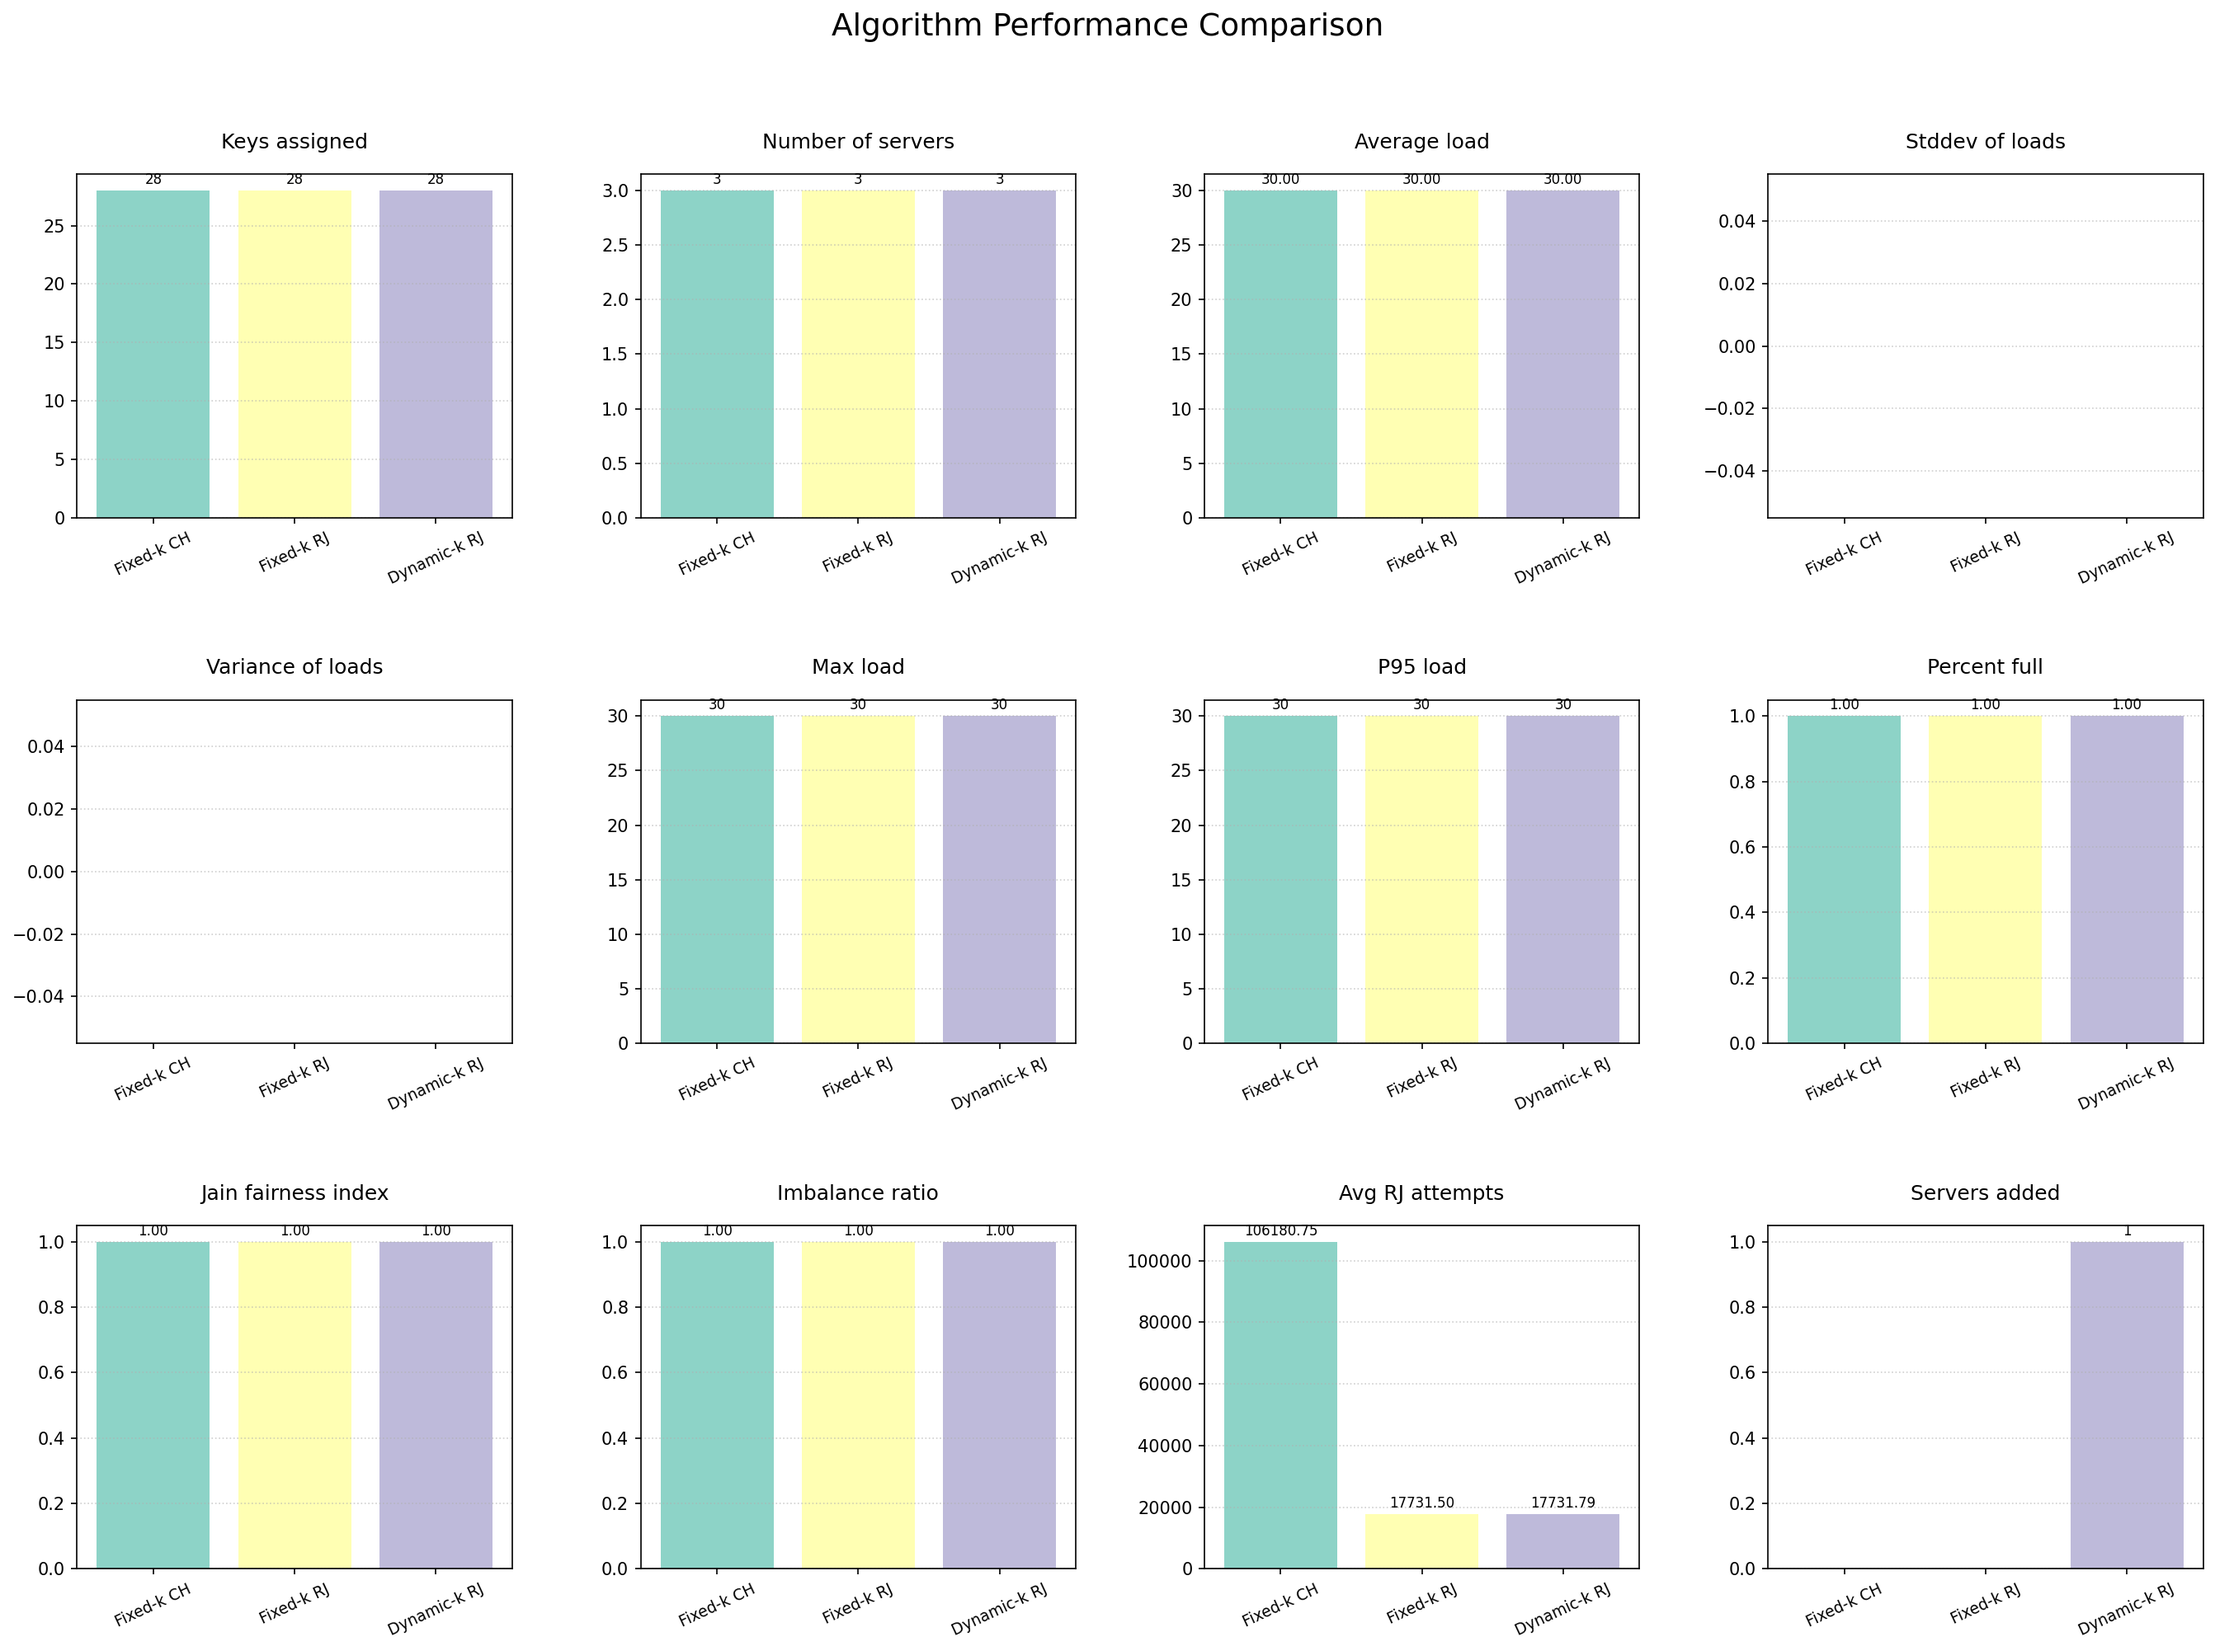
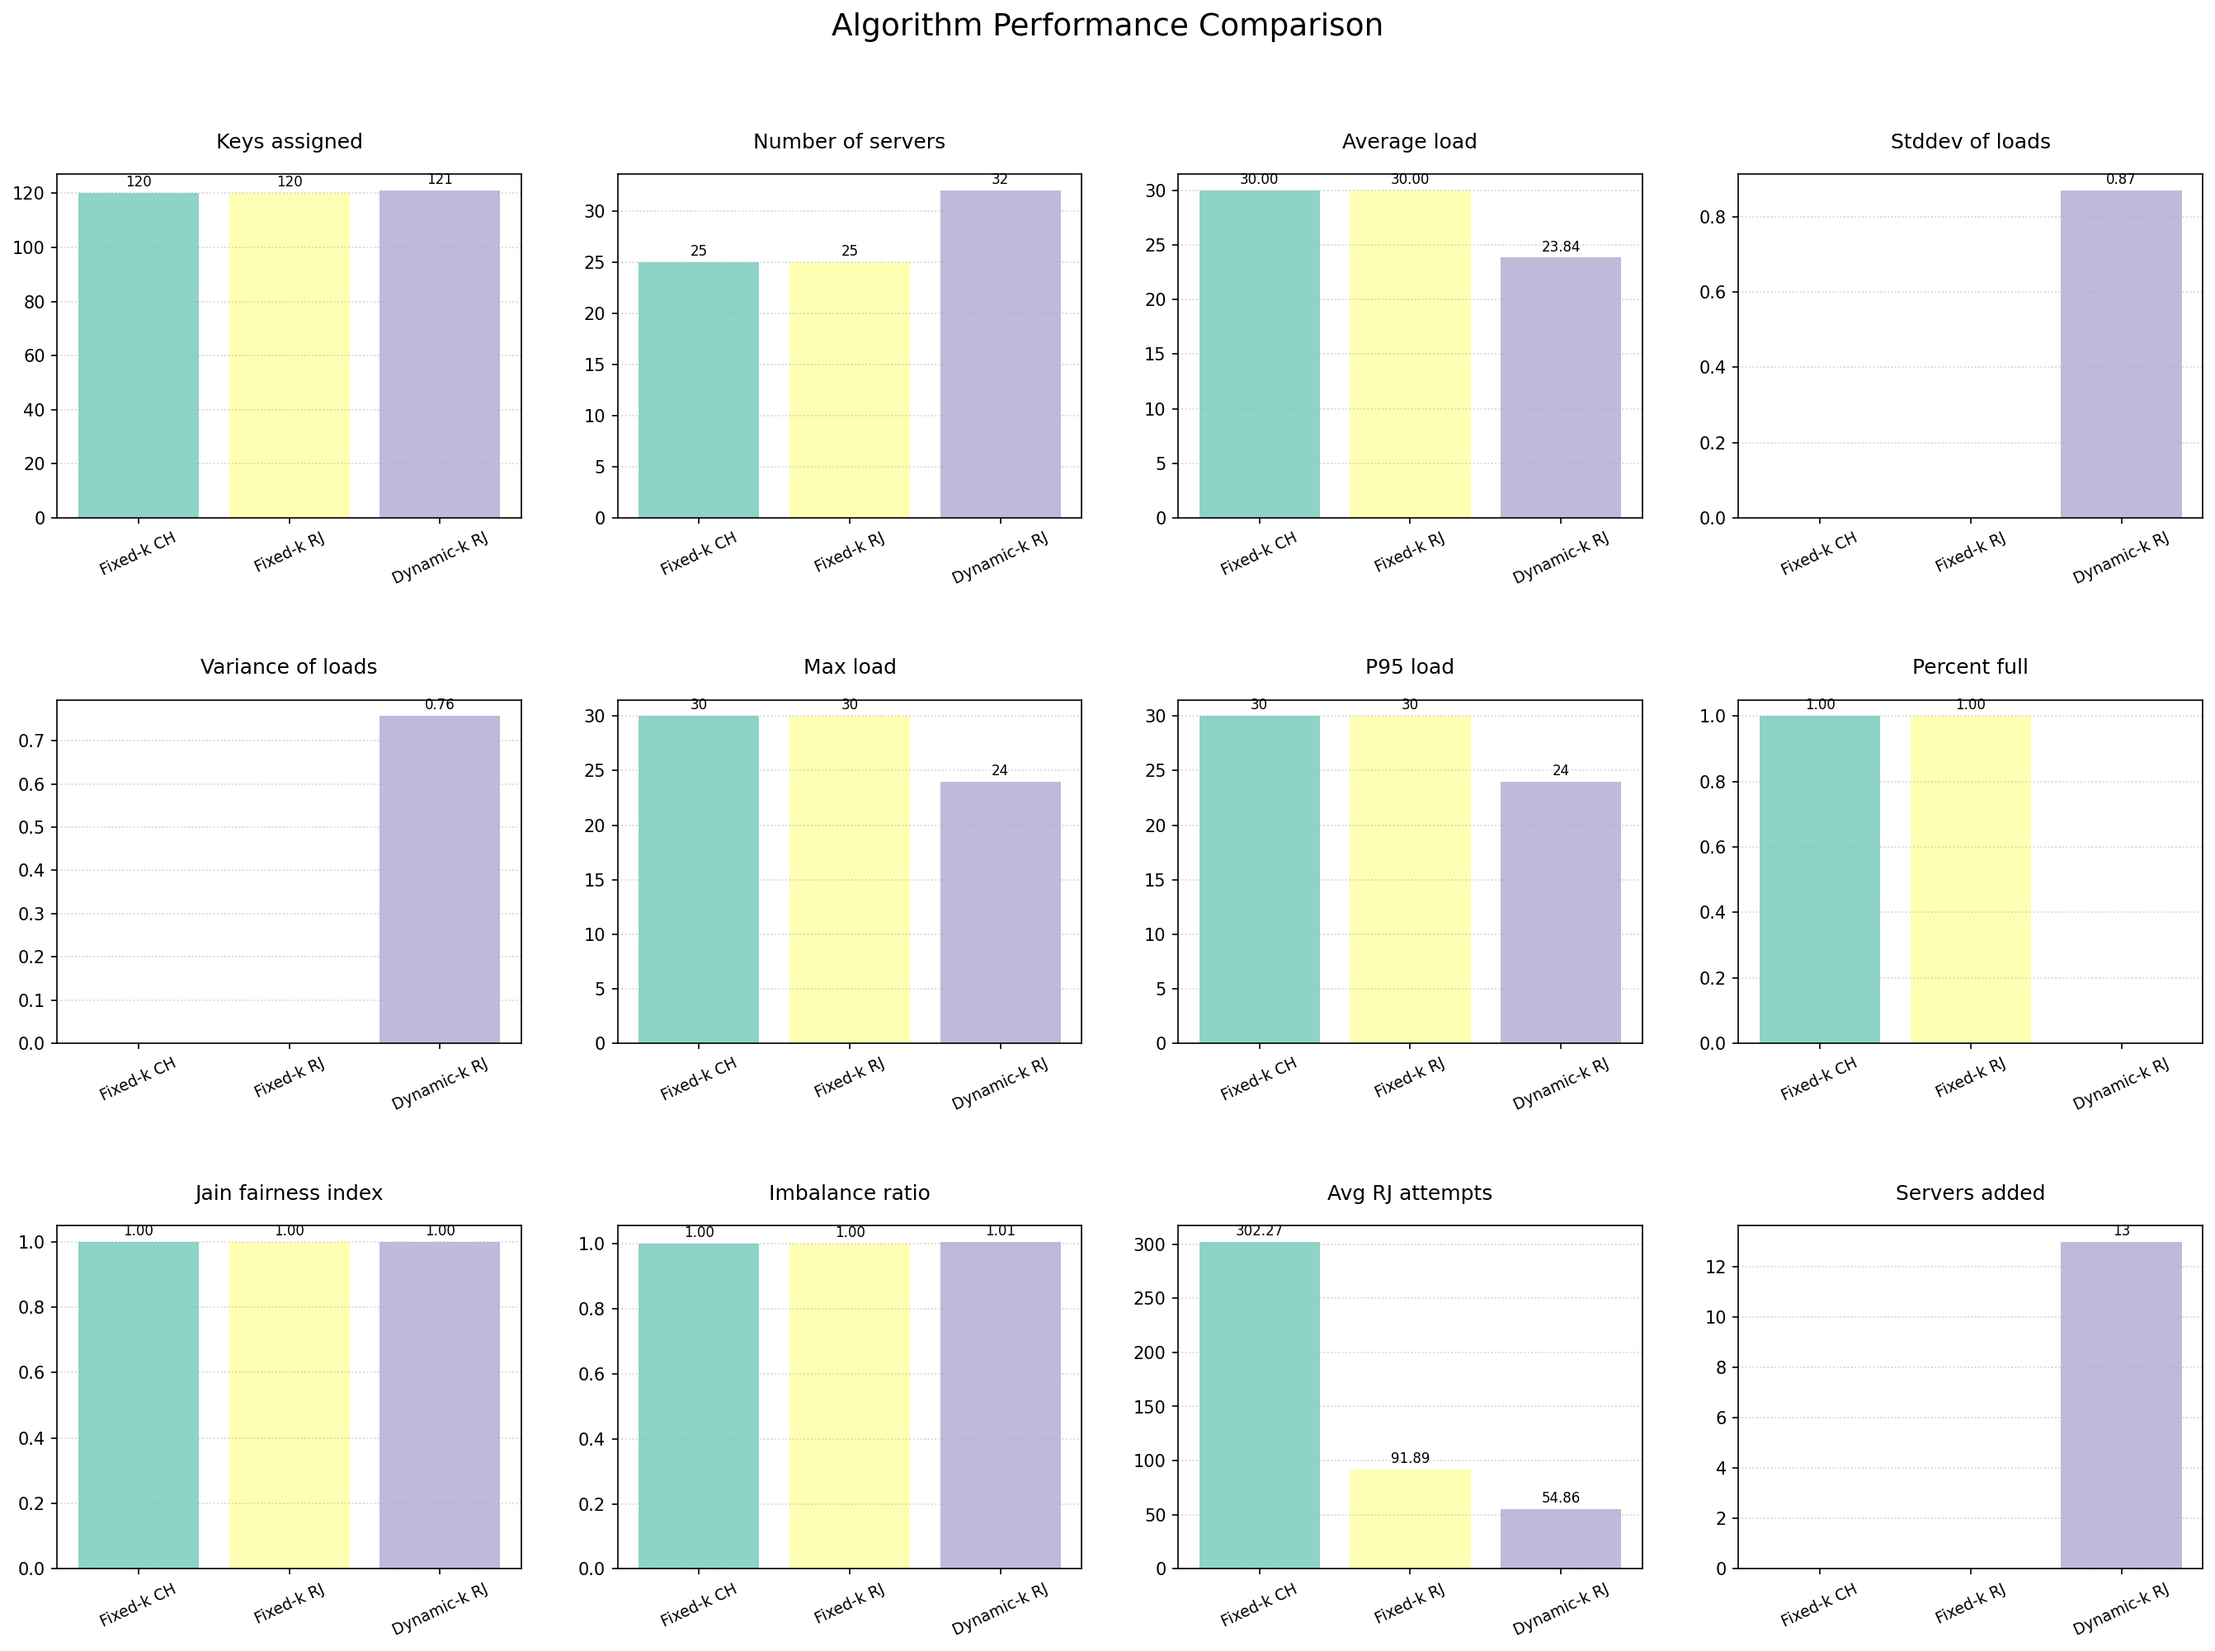
fix error and implement key rebalancing

diff --git a/hashing_algorithms.py b/hashing_algorithms.py
@@ -160,13 +160,32 @@ class BoundedHashRing_RehashThreshold(ConsistentHashRing):
                 self.server_loads[s] += 1
                 self.key_assignments[key] = s
                 return s, attempt
-        candidates = [srv for srv, l in self.server_loads.items() if l < self.capacity]
+        candidates = [
+            srv for srv, l in self.server_loads.items() if l < capacity_threshold
+        ]
         if candidates:
             least = min(candidates, key=lambda s: self.server_loads[s])
             self.server_loads[least] += 1
             self.key_assignments[key] = least
             return least, self.max_attempts
-        return None, self.max_attempts
+        # Autoscale: add a new server
+        new_server_name = f"S{len(self.server_loads)}"
+        print(f"Autoscaling: Adding new server {new_server_name}")
+        self.add_server(new_server_name)
+
+        self.rebalance_keys(new_server_name)
+
+        return self.assign_key(key)
+
+    def rebalance_keys(self, new_server):
+        """Redistribute keys to balance load after adding a new server."""
+        for key, server in list(self.key_assignments.items()):
+            # Check if the current server is overloaded
+            if self.server_loads[server] > self.capacity * self.threshold_ratio:
+                # Remove the key from the current server
+                self.delete_key(key)
+                # Reassign the key to the new server
+                self.assign_key(key)
 
     def get_natural_server_for_key(self, key):
         """Find the server this key would naturally hash to (first clockwise)."""

diff --git a/main_simulation.py b/main_simulation.py
@@ -244,6 +244,9 @@ def run_dynamic_k_rj(
             if idle_servers:
                 autoscale["removed"] += len(idle_servers)
 
+        for server, load in ring.server_loads.items():
+            print(f"Time {t}: Server {server} has load {load}")
+
     return _detailed_stats_from_ring(ring, len(keys), total_attempts, autoscale)
 
 
@@ -278,13 +281,13 @@ def evaluate_metrics():
 
 
 def run_all():
-    keys = generate_uniform_keys(NUM_KEYS_UNIFORM)
+    uniform_keys = generate_uniform_keys(NUM_KEYS_UNIFORM)
 
-    keys = generate_zipfian_keys(NUM_KEYS_UNIFORM)
+    zipfian_keys = generate_zipfian_keys(NUM_KEYS_UNIFORM)
 
-    fixed_ch_stats = run_fixed_k_ch(keys)
-    fixed_rj_stats = run_fixed_k_rj(keys)
-    dynamic_rj_stats = run_dynamic_k_rj(keys, idle_threshhold=10)
+    fixed_ch_stats = run_fixed_k_ch(zipfian_keys)
+    fixed_rj_stats = run_fixed_k_rj(zipfian_keys)
+    dynamic_rj_stats = run_dynamic_k_rj(zipfian_keys, idle_threshhold=10)
     run_spike_experiment(steady_keys=1000, spike_keys=8000, snapshot_interval=500)
 
     from createplots import plot_stats_comparison

diff --git a/config.py b/config.py
@@ -1,15 +1,12 @@
 # Simulation / environment defaults
-NUM_SERVERS = 3
+NUM_SERVERS = 25
 SERVER_CAPACITY = 30
-NUM_KEYS_UNIFORM = 10000
-NUM_KEYS_SKEWED = 1000
+NUM_KEYS_UNIFORM = 763
+NUM_KEYS_SKEWED = 763
 
 # Hash ring tuning
 NUM_VIRTUAL_NODES = 100
 HASH_SPACE_SIZE = 2**32
 MAX_RJ_ATTEMPTS = 50
 
-# DLB / training defaults (optional)
-DLB_EPOCHS = 1
-DLB_TRAINING_SIZE = 1000
 DLB_ZIPF_ALPHA = 1.5
